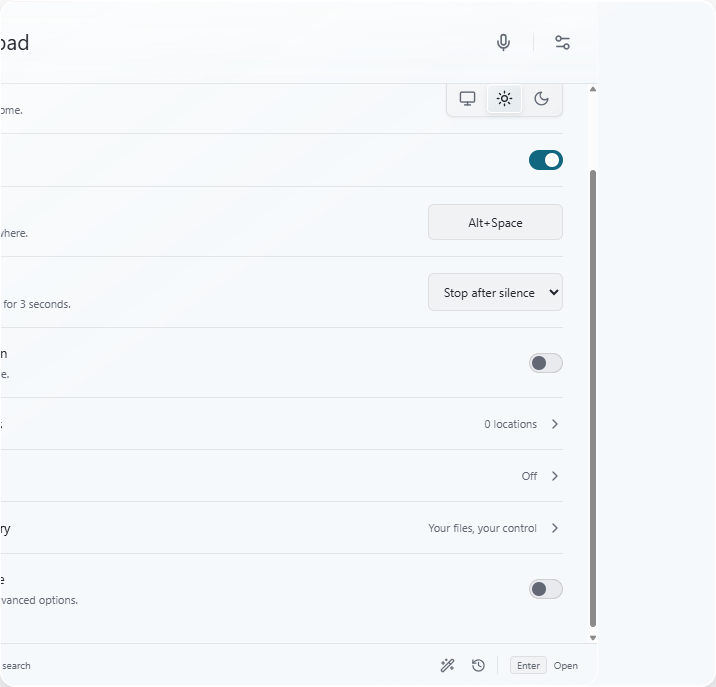
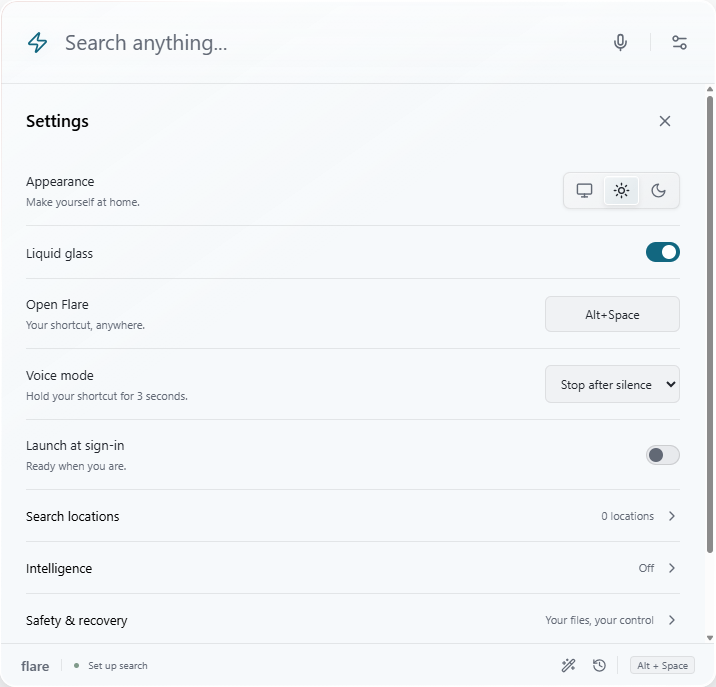
update

diff --git a/src/glass.css b/src/glass.css
@@ -14,6 +14,10 @@
   --glass-reflection: rgba(255, 255, 255, 0.45);
   --glass-warm-edge: rgba(197, 136, 128, 0.25);
 }
+:root[data-glass='on']:not([data-theme='light']) {
+  --muted: #b2b7c0;
+  --faint: #adb3bd;
+}
 :root[data-glass='on'] .launcher {
   background: linear-gradient(145deg, var(--glass-control), transparent 40%), var(--glass-fill);
   border-color: var(--glass-edge);
@@ -44,6 +48,9 @@
   pointer-events: none;
   z-index: 3;
 }
+:root[data-environment='desktop'][data-glass='on'] .launcher {
+  backdrop-filter: none;
+}
 :root[data-glass='on'] .search-bar {
   background: linear-gradient(180deg, var(--glass-control), transparent);
 }
@@ -57,6 +64,9 @@
   background: linear-gradient(90deg, transparent, var(--glass-control), transparent);
   opacity: 0;
   transition: opacity 180ms ease-out;
+}
+.search-bar {
+  overflow: clip;
 }
 .search-bar > :not(.glass-sheen) {
   position: relative;

diff --git a/src/App.tsx b/src/App.tsx
@@ -141,6 +141,10 @@ export default function App() {
   }, [selected]);
   useEffect(() => {
     const id = ++sequence.current;
+    if (view !== 'search') {
+      setSearching(false);
+      return;
+    }
     if (!query.trim()) {
       setResults([]);
       setSearching(false);
@@ -170,6 +174,7 @@ export default function App() {
   }, [
     query,
     kind,
+    view,
     settings?.roots,
     settings?.content,
     settings?.clipboard,
@@ -696,7 +701,7 @@ export default function App() {
               <History size={15} />
             </button>
             <span className="footer-separator" />
-            {query && results.length ? (
+            {view === 'search' && query && results.length ? (
               <span className="key-hint">
                 <kbd>Enter</kbd> Open
               </span>

diff --git a/src/styles.css b/src/styles.css
@@ -121,10 +121,10 @@ small {
   box-shadow:
     var(--shadow),
     inset 0 1px 0 rgba(255, 255, 255, 0.06);
-  overflow: hidden;
   transform-origin: 50% 0;
   animation: arrive 0.38s cubic-bezier(0.2, 0.8, 0.2, 1) both;
   isolation: isolate;
+  overflow: clip;
 }
 .input-rail {
   position: absolute;

diff --git a/docs/verification.md b/docs/verification.md
@@ -2,9 +2,11 @@
 
 Local evidence stays in ignored `Files/private/verification/`. Implementation and validation are separate.
 
-`npm test` covers ranking/command rejection, content snippets/exclusions, protected locations, organization/restart/undo, collisions/later edits, selected approvals, changed multi-input rejection, actual WebP/PDF output/rendering, and EXIF preference/fallback.
+`npm test` covers ranking/command rejection, background query refresh, content snippets/exclusions, Office/PDF text extraction, protected locations, organization/restart/undo, collisions/later edits, selected approvals, changed multi-input rejection, actual WebP/PDF output/rendering, EXIF preference/fallback, and binary cloud-audio construction without network calls.
 
-`npm run test:desktop` launches real Electron with isolated data. It exercises app discovery, themes, conversion review/output/undo, private-location exclusions, image preview, and narrow layout. Native chooser responses are replaced with generated fixture paths; file processing/indexing/IPC are real. Selected states receive axe-core WCAG A/AA scans. Passing does not establish full accessibility conformance.
+`npm run test:desktop` launches real Electron with isolated data. It exercises app discovery, themes, glass/solid settings, pointer reflections, conversion review/output/undo, private-location exclusions, image preview, and narrow layout. Native chooser responses are replaced with generated fixture paths; file processing/indexing/IPC are real. Selected stable states receive axe-core WCAG A/AA scans. Passing does not establish full accessibility conformance.
+
+The glass treatment uses static optical highlights and compositor motion. It is not desktop refraction: CSS backdrop filtering cannot sample other applications behind the native window. Native rendering disables that unnecessary blur layer. Optical surfaces use non-scrollable clipping so focus cannot shift the shell's contents.
 
 Set `FLARE_SMOKE_EXE` to an absolute packaged `Flare.exe` path to test the distributed binary in portable mode. Build checks TypeScript; `format:check` checks formatting. Runtime advisory checks use `npm audit --omit=dev`, not a full Electron/native security audit.
 
@@ -18,3 +20,7 @@ Set `FLARE_SMOKE_EXE` to an absolute packaged `Flare.exe` path to test the distr
 - Clean-machine installer/uninstaller/portable retention and complete native-library/source obligations.
 
 This is a preview until these checks are completed. Compilation/screenshots are not performance or data-loss guarantees.
+
+## Dependency Review
+
+The local runtime advisory check reported zero vulnerabilities. The full development-tool audit still reports GHSA-ch52-4w7c-c8xp through `http-cache-semantics` in the Electron packaging chain (eight affected transitive packages). Do not apply the suggested breaking downgrade blindly. This dependency was verified absent from the packaged application; the build-tool advisory still needs upstream remediation before a public release.

diff --git a/README.md b/README.md
@@ -30,6 +30,7 @@ Use `npm run desktop:dev` for live UI development. `npm run dev` is a browser pr
 - Choose folders or connected drives in Settings before file indexing. Hidden/system files, reparse points, cloud-only files, credentials, and common caches are excluded.
 - File tools provide image/PDF conversion, image compression, organization, and older-file review. Selected-file previews, durable history, and Undo protect changes. Balanced trust may skip the extra conversion-output review, never move/cleanup approval.
 - Clipboard history starts off. Opt-in retains at most 50 text items for up to 7 days, with clear/disable controls and supported sensitive-content markers.
+- Liquid-glass edges, pointer reflections, and elastic controls work in light/dark modes. Turn glass off in Settings; reduced-motion preferences are respected.
 
 Examples: `open YouTube`, `volume max`, `brightness 50 percent`, `12 * (3 + 4)`, `find photos from June 2025`, `photos 2025-06-12`, `search drives D and E for invoice`.
 
